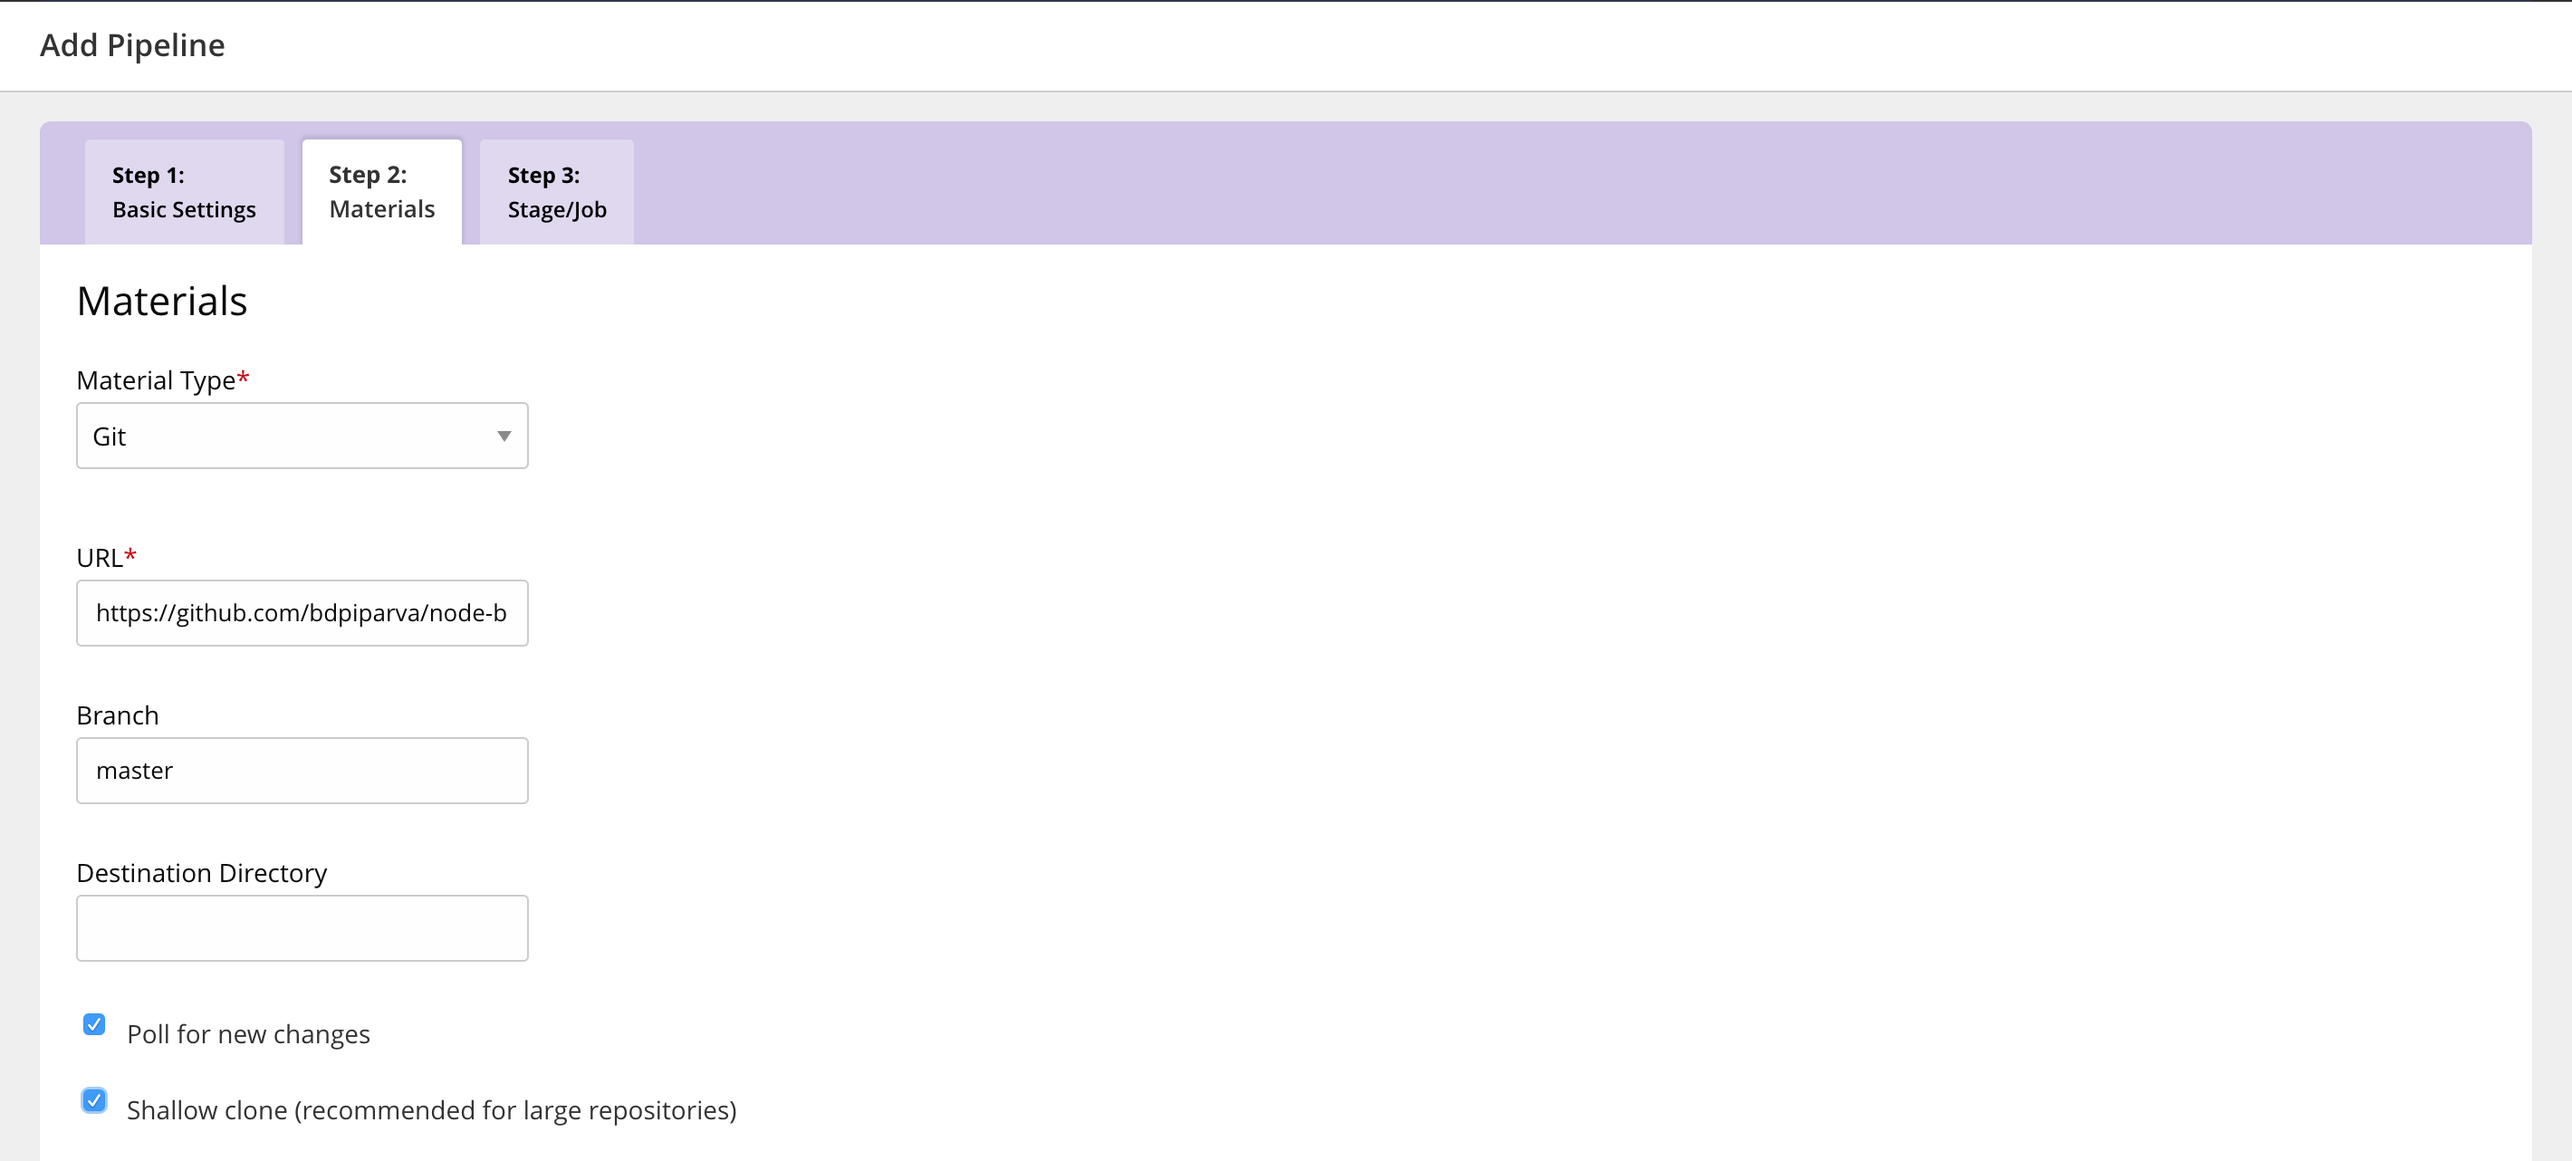
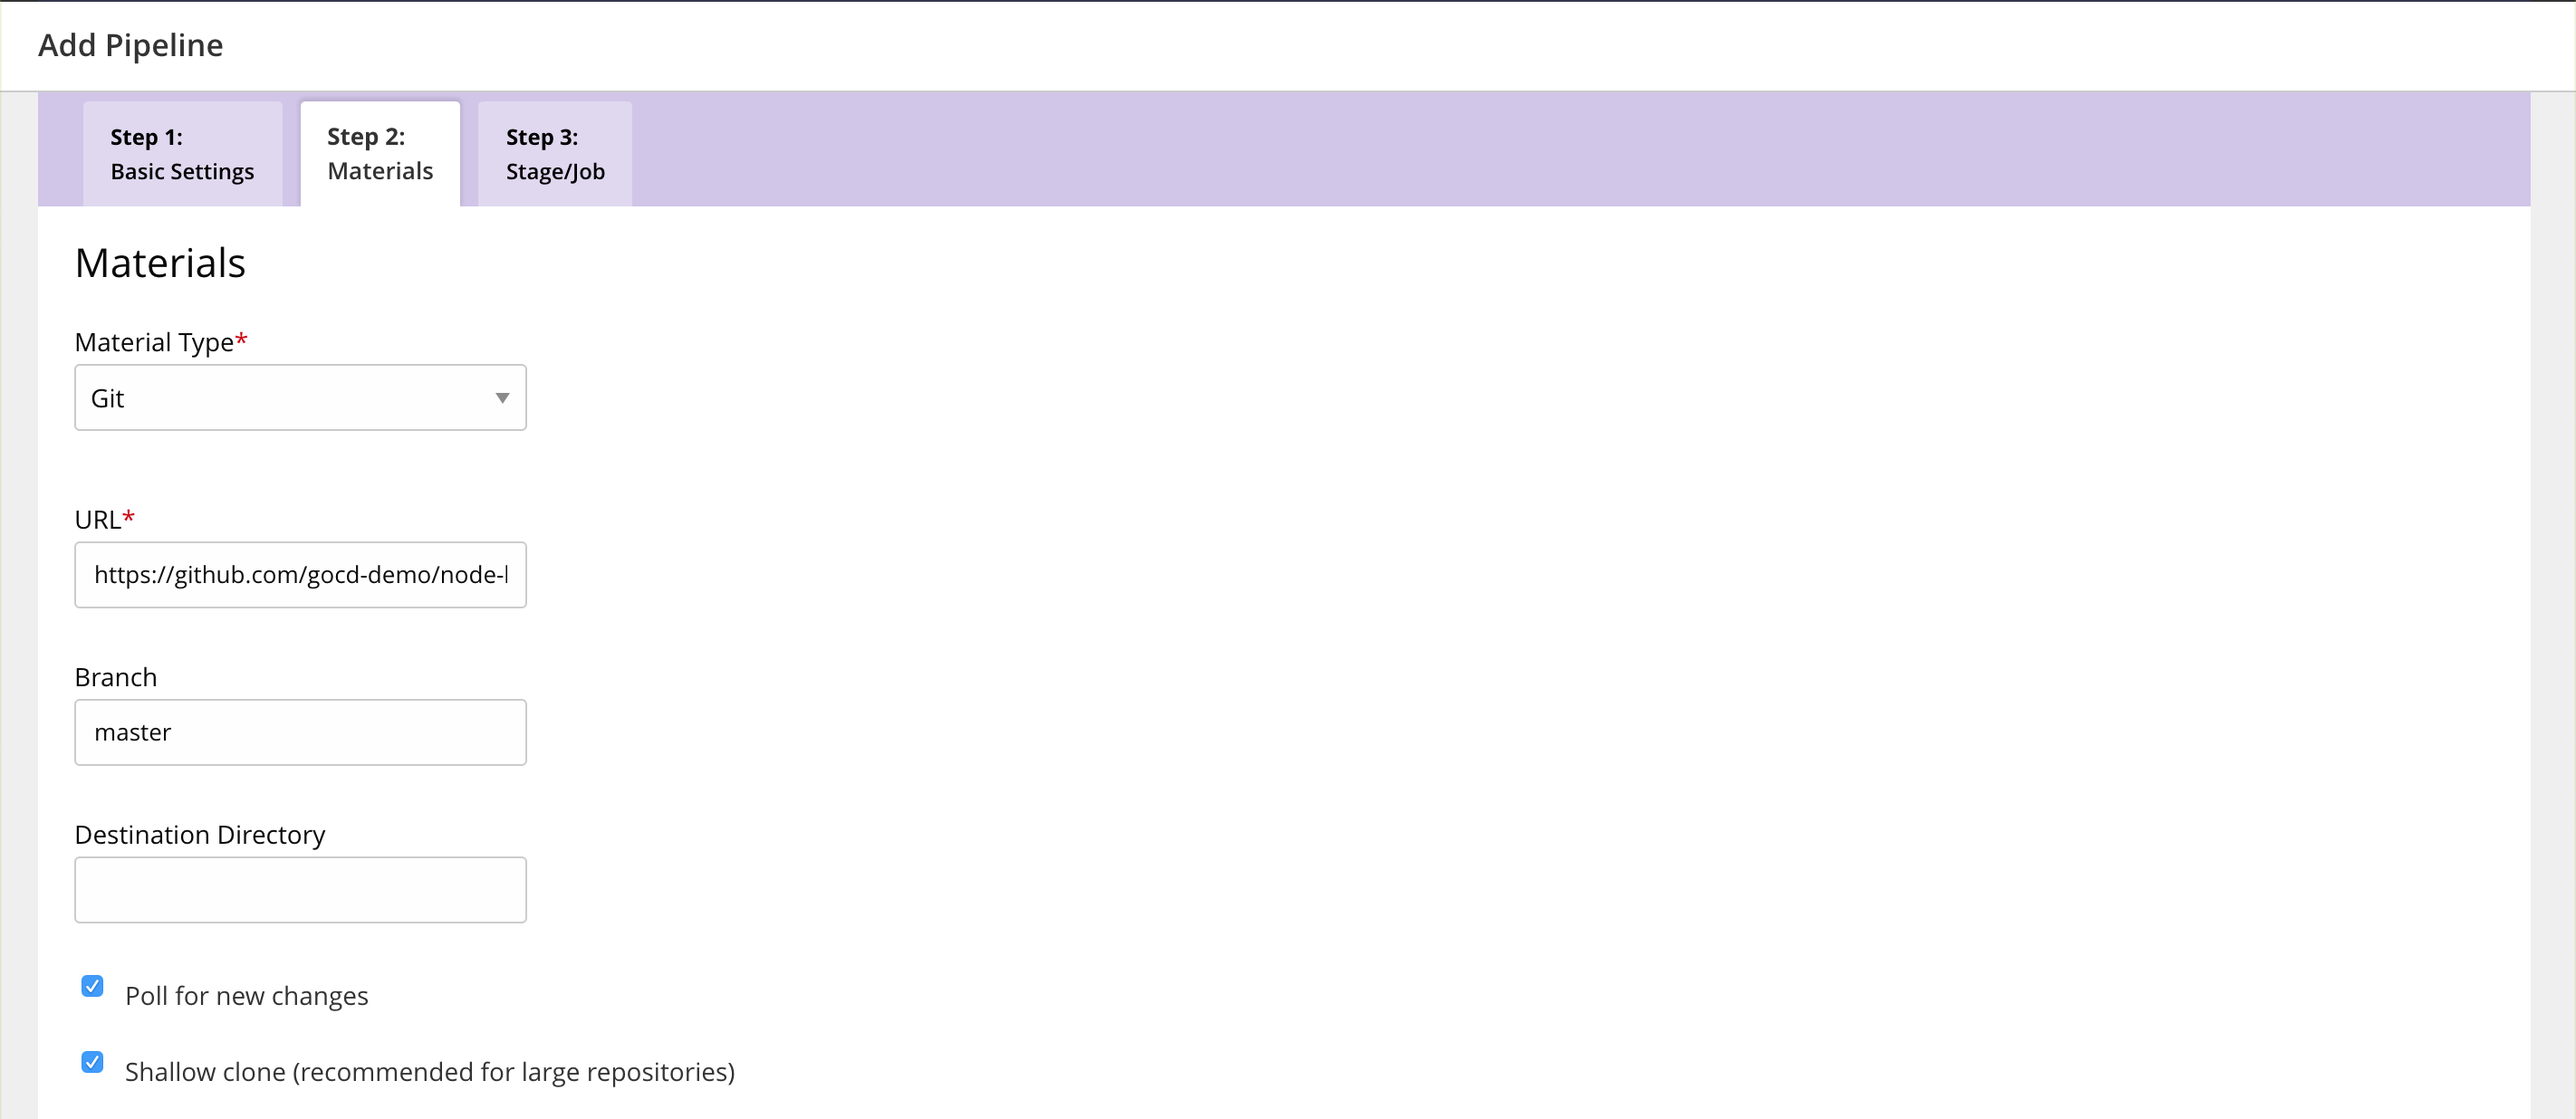
Change the git material to be https://github.com/gocd-demo/node-bulletin-board.

diff --git a/gocd_on_kubernetes/designing_a_cd_pipeline/creating_a_build_pipeline.md b/gocd_on_kubernetes/designing_a_cd_pipeline/creating_a_build_pipeline.md
@@ -20,7 +20,7 @@ We’ll build our application as a docker image artifact and publish it to Docke
 
   ![](../../resources/images/gocd-helm-chart/pipeline_wizard_add_pipeline.png)
 
-3. Specify a git [material](https://docs.gocd.org/current/introduction/concepts_in_go.html#materials) with repository `https://github.com/bdpiparva/node-bulletin-board`.
+3. Specify a git [material](https://docs.gocd.org/current/introduction/concepts_in_go.html#materials) with repository `https://github.com/gocd-demo/node-bulletin-board.git`.
 
   ![](../../resources/images/gocd-helm-chart/pipeline_wizard_add_material.png)
 
@@ -30,9 +30,9 @@ We’ll build our application as a docker image artifact and publish it to Docke
 
 5. Create a [job](https://docs.gocd.org/current/introduction/concepts_in_go.html#job) called `build_and_publish_image` with an initial task argument
 
-```bash
-   docker build -t $DOCKERHUB_USERNAME/bulletin-board:$GO_PIPELINE_LABEL . -f Dockerfile.application
-```
+  ```bash
+    docker build -t $DOCKERHUB_USERNAME/bulletin-board:$GO_PIPELINE_LABEL . -f Dockerfile.application
+  ```
 
   > The `GO_PIPELINE_LABEL` is an environment variable provided by GoCD which can be used to differentiate between builds from a repository.
 
@@ -108,8 +108,11 @@ To run the pipeline, unpause the pipeline in the GoCD dashboard. The changes fro
 ## Check the status of agents with Agent Status Report
 
 When the pipeline is running (signified by a yellow bar), you can take a look at the status of the agents that are assigned to run the jobs in the pipeline. You can find the following information here
+
 - pod details & configuration
+
 - pod events
+
 - logs for the agents
 
 This can be useful to troubleshoot when an agent is not picking up the job. 
@@ -128,10 +131,10 @@ To access the agent status report,
 
     ![](../../resources/images/gocd-helm-chart/agent_status_report.png)
 
-*Note: The Agent Status Report is only visible when that particular job is running. Once the job is run, this status will not be visible.*
+    *Note: The Agent Status Report is only visible when that particular job is running. Once the job is run, this status will not be visible.*
 
 ## Verify your pipeline
 
 Once the pipeline has run successfully, you can go to your DockerHub account to verify if the image has been published.
 
-In our [next section](creating_a_deploy_pipeline.md), we'll look at how to configure a pipeline to deploy our sample application onto a Kubernetes cluster.
+In the [next section](creating_a_deploy_pipeline.md), we'll look at how to configure a pipeline to deploy our sample application onto a Kubernetes cluster.

diff --git a/gocd_on_kubernetes/designing_a_cd_pipeline/creating_a_deploy_pipeline.md b/gocd_on_kubernetes/designing_a_cd_pipeline/creating_a_deploy_pipeline.md
@@ -6,17 +6,19 @@ keywords: gocd helm chart, cd pipeline
 
 In this section, we’ll learn to design a deployment pipeline to deploy to Kubernetes. After you've designed and run the build pipeline, you'll see that for every successful build, a new image gets created with a new tag. To create a pipeline to deploy the published artifact, follow these steps:   
 
-### Quick Links
+##### Quick Links
 
-- [Modelling Deployment Pipelines](https://www.gocd.org/tags/modeling-deployment-pipelines.html)
+[Modeling Deployment Pipelines](https://www.gocd.org/tags/modeling-deployment-pipelines.html)
 
+## Deploy application to Kubernetes
+ 
 1. Navigate to Admin -> Pipelines and click on `Create a pipeline within this group`.
 
 2. Specify the pipeline name as `deploy_app_to_cluster`.
 
     ![](../../resources/images/gocd-helm-chart/pipeline_wizard_deploy_pipeline.png)
 
-3. Specify the git material with URL `https://github.com/bdpiparva/node-bulletin-board`. The deploy scripts are present in the same repository as the application source. 
+3. Specify the git material with URL `https://github.com/gocd-demo/node-bulletin-board.git`. The deploy scripts are present in the same repository as the application source.
 
     ![](../../resources/images/gocd-helm-chart/deploy_add_material.png)
 
@@ -84,7 +86,7 @@ You can view the value stream map of your deployment by clicking on the 'VSM' li
 
 ## Access your application
 
-Once the pipeline has run successfully, go to `<ingress-ip>/bulletin-board` to see your deployed sample application.
+Once the pipeline has run successfully, go to `http://<ingress-ip>/bulletin-board` to see your deployed sample application.
 
 Get the new ingress IP address for the application by doing
 

diff --git a/gocd_on_kubernetes/gocd_helm_chart/setup.md b/gocd_on_kubernetes/gocd_helm_chart/setup.md
@@ -34,14 +34,20 @@ Before installing GoCD, you need to setup a Kubernetes cluster. You can do this 
 
 - Option 3: Kubernetes Operations on AWS/GCE or kops ([setup guide](https://github.com/kubernetes/kops/blob/master/docs/README.md))
 
+  ##### Other References
+
+  - [Manage Kubernetes Clusters on AWS Using Kops](https://aws.amazon.com/blogs/compute/kubernetes-clusters-aws-kops/)
+  - [Installing Kubernetes on AWS with kops](https://kubernetes.io/docs/getting-started-guides/kops/)
+
 ## 3. Install the Kubernetes package manager - Helm
 
-> Helm is a package manager for Kubernetes. Kubernetes packages are called charts. Charts are curated applications for Kubernetes. 
+Helm is a package manager for Kubernetes. Kubernetes packages are called charts. Charts are curated applications for Kubernetes. 
 
 Helm has two parts to it, a client and a server called `Tiller`.
 
 #### Install the Helm client
-> The helm client is a CLI that let’s you install and update packaged applications on Kubernetes.
+
+The helm client is a CLI that let’s you install and update packaged applications on Kubernetes.
 
 Please refer to the helm [install documentation](https://github.com/kubernetes/helm/blob/master/docs/install.md) for alternative methods of installation.
 

diff --git a/gocd_on_kubernetes/gocd_helm_chart/configure_cluster.md b/gocd_on_kubernetes/gocd_helm_chart/configure_cluster.md
@@ -5,13 +5,11 @@ keywords: gocd helm chart, cd pipeline
 
 # Configure your Kubernetes Cluster
 
-Now that you have your Kubernetes cluster [set up and running](setup.md), you’ll need to make the following configuration changes.
+Now that you have your Kubernetes cluster [set up and running](setup.md), you’ll need to make the following configuration changes. This configuration will be specific to your target Kubernetes environment. We have specified the required actions for Minikube, GKE, AWS below.
 
 **1. Enable Ingress** - to be able to expose the GoCD application over your network, you will need an [Ingress controller](https://kubernetes.io/docs/concepts/services-networking/ingress/#ingress-controllers).
 
 **2. Configure Service Account** - A [service account](https://kubernetes.io/docs/tasks/configure-pod-container/configure-service-account/) is how Kubernetes manages roles and permissions. The default Kubernetes service account needs to be associated with the cluster-admin type role to be able to install the GoCD application.
-
-This configuration will be specific to your target Kubernetes environment. We have specified the required actions for Minikube, GKE, AWS below.
 
 ## Option 1: Configure minikube
 

diff --git a/gocd_on_kubernetes/introduction.md b/gocd_on_kubernetes/introduction.md
@@ -11,5 +11,5 @@ GoCD gives you the flexibility to effectively represent CD pipelines that suit y
 
 With this documentation guide, you’ll be able to
 
-- Setup and configure an instance of GoCD on a Kubernetes cluster.
-- Design a continuous delivery pipeline to deploy a sample application to Kubernetes.
+- [Setup and configure](gocd_helm_chart/setup_and_configuration.md) an instance of GoCD on a Kubernetes cluster.
+- [Design a continuous delivery pipeline](designing_a_cd_pipeline/index.md) to deploy a sample application to Kubernetes.

diff --git a/gocd_on_kubernetes/gocd_helm_chart/helm_install.md b/gocd_on_kubernetes/gocd_helm_chart/helm_install.md
@@ -5,8 +5,7 @@ keywords: gocd helm chart, cd pipeline
 
 # Install the GoCD Helm chart
 
-> Helm is a package manager for Kubernetes. Kubernetes packages are called charts. Charts are curated applications for Kubernetes.  
-
+Helm is a package manager for Kubernetes. Kubernetes packages are called charts. Charts are curated applications for Kubernetes.  
 
 Install the GoCD Helm chart with these commands:
 

diff --git a/gocd_on_kubernetes/designing_a_cd_pipeline/index.md b/gocd_on_kubernetes/designing_a_cd_pipeline/index.md
@@ -5,13 +5,7 @@
     <br>
     <br>
     <br>
-    <br>
-    <br>
-    <br>
-    <br>
-    <br>
-    <br>
-        <h2>Getting Started with GoCD on Kubernetes</h2>
+       <h2>Getting Started with GoCD on Kubernetes</h2>
     <br>
        <h1>Step 2: Designing a CD Pipeline</h1>
     </div>

diff --git a/gocd_on_kubernetes/gocd_helm_chart/setup_and_configuration.md b/gocd_on_kubernetes/gocd_helm_chart/setup_and_configuration.md
@@ -5,12 +5,6 @@
     <br>
     <br>
     <br>
-    <br>
-    <br>
-    <br>
-    <br>
-    <br>
-    <br>
         <h2>Getting Started with GoCD on Kubernetes</h2>
     <br>
        <h1>Step 1: Setup and Configuration</h1>
